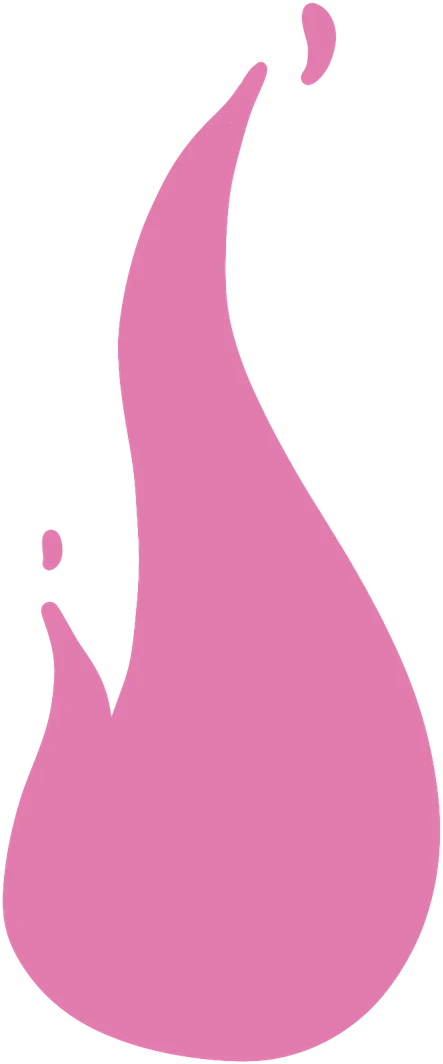
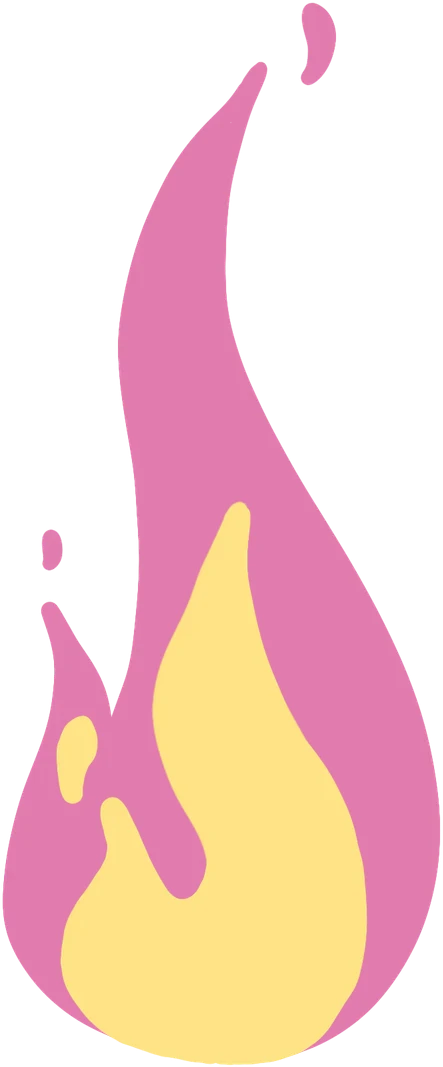
Laboratorio de Sid: Metta en lugar de Belleza (su nido con sus seres alrededor), los personajes de cada carta alrededor de su lugar (Metta, Celebración, Vulpes en Desafío), y la noche viva (luciérnagas, esporas, estrellas fugaces que suenan)
Claude-Session: https://claude.ai/code/session_01WTSfarsaRbQ4zQwAYYhqZ8

diff --git a/src/lab/sidWorld.js b/src/lab/sidWorld.js
@@ -4,7 +4,7 @@
 // the sprout that grows out of its middle and curls up into a bead, as she drew them), pebbles and a stack of them,
 // each on the ground, spread over the world, and her tree ahead of him on his way (TREE); and plants, stones and
 // mushrooms cut out of the cards' scenes the same way (src/lab/suelo, by scripts/convert-lab-suelo.mjs): Ciclos's fans
-// and tufts of grass, Upekkha's mushrooms and crystals, Desafío's and Belleza's stones, Belleza's and Celebración's
+// and tufts of grass, Upekkha's mushrooms and crystals, Desafío's stones, Metta's little glowing plants, Celebración's
 // mushrooms. It is endless, across and into the distance: it is made a patch at a time from where it is (the same
 // place is always the same), and only what is on the screen is drawn. Everything starts in ink and takes its colour
 // (one of the seven of the chakras) as he walks by it, and all round him when he sits in lotus (a wave goes out of
@@ -74,6 +74,8 @@ const GRASS = ['grass0', 'grass1', 'grass2', 'grass3', 'grass4', 'grass5', 'gras
 
 // The big stones stand in his way (he walks round them; the small ones he steps over), and the tall plants are drawn
 // faint when they are just in front of him (the low ones, and the grass, hide his feet as he walks through them)
+// what lets go of glowing spores by night (they rise from its caps and fade)
+const SPORES = new Set(['shrooms', 'shroom', 'grove', 'mushrooms', 'caps', 'bloom0', 'bloom1', 'bloom2', 'bloom3', 'bloom4']);
 const BLOCKS = new Set(['pebbleGrass', 'pebbleFlat', 'cairn', 'grove', 'stones', 'stack']);
 const TALL = new Set(['fern', 'fernSmall', 'cairn', 'grove']);
 // her tree's trunk on the floor: it stands a little behind its foot (its roots come forward), as wide as it looks
@@ -112,7 +114,7 @@ export const CICLOS = {
 };
 
 // The zones of the world, one card each, across it (ZONE wide, in this order to his right; endless both ways, so going
-// on they come round again): Ciclos round her tree, Belleza, Upekkha, Desafío and Celebración (to the left of Ciclos).
+// on they come round again): Ciclos round her tree, Metta, Upekkha, Desafío and Celebración (to the left of Ciclos).
 // Each has its card's colours: its ink (also Sid's line) and its white (Sid's body), its sky by day and by night (the
 // night is the cards' starry sky over it), its ground and the streaks and marks on it by day and by night, its sun,
 // the colours things take, and its own pieces (cut out of its scene's layers, shown in its own colours once coloured).
@@ -121,13 +123,14 @@ export const CICLOS = {
 const ZONES = [
     { card: 'ciclos', id: 15, ...CICLOS, own: [{ names: ['fan0', 'fan1', 'fan2', 'fan3'], weight: 3, sway: 0.35 }], grass: true },
     {
-        card: 'belleza', id: 13, ink: '#3C549C', white: '#EEF5CC', sky: '#48B4B4', night: '#1F4E86', sun: '#F7C9B6',
-        groundDay: '#90CCA8', groundNight: '#6FB3A6', detailDay: '#E4F0B4', detailNight: '#2C4A86',
+        // (a night card: its day is the colours of its two lights, the great yellow one and the turquoise one)
+        card: 'metta', id: 8, ink: '#18243C', white: '#FCFCFC', sky: '#FCE49C', night: '#303C6C', sun: '#00B4CC',
+        groundDay: '#305490', groundNight: '#3C64A8', detailDay: '#00B4CC', detailNight: '#1E3A70',
         colours: [
-            { light: '#F0B4A8', ink: '#B4665F' }, { light: '#48B4B4', ink: '#1F7F86' }, { light: '#6C84C8', ink: '#3C549C' },
-            { light: '#E4F0B4', ink: '#8FA060' }, { light: '#90CCA8', ink: '#4F8F6A' }, { light: '#F7D774', ink: '#A88A2A' },
+            { light: '#F09CB4', ink: '#B05A78' }, { light: '#00B4CC', ink: '#007C8C' }, { light: '#FCE49C', ink: '#A88A3A' },
+            { light: '#3C84C0', ink: '#245490' }, { light: '#305490', ink: '#18243C' }, { light: '#FCFCFC', ink: '#8C9CB4' },
         ],
-        own: [{ name: 'stack', weight: 1 }, { name: 'mushroomRow', weight: 2 }, { name: 'bush', weight: 2, sway: 0.2 }],
+        own: [{ names: ['bloom0', 'bloom1', 'bloom2', 'bloom3', 'bloom4'], weight: 5, sway: 0.4 }],
     },
     {
         card: 'upekkha', id: 9, ink: '#60549C', white: '#FCFCFC', sky: '#B4E4D8', night: '#2490A8', sun: '#FC9C78',
@@ -166,18 +169,27 @@ const ZONE = 8000, ZONE_START = -2000, BLEND = 1000;    // (about 19 s walking a
 const CYCLE_W = ZONE * ZONES.length;   // (the zones come round again after this)
 const centreOf = (card) => ZONE_START + ZONE * (ZONES.findIndex((z) => z.card === card) + 0.5);
 // The special place of each zone, in its middle (and again wherever the zones come round): Ciclos's is her tree; then
-// Belleza's two beings embracing, Upekkha's pond and Celebración's fire (Desafío has none yet). Sitting in
+// Metta's nest of mushrooms with its beings round it, Upekkha's pond and Celebración's fire with everyone round it
+// (Desafío has none yet: only Vulpes is there). Its pieces (parts) and the characters round it (crowd, each its own
+// thing on the ground, breathing, hopping when he comes, leaning to him) stand where the card has them: across, as far
+// from its anchor (the foot of its main piece, card px) as in the card, and back, as far as they are up in the card
+// (depthK times: the card's ground is seen nearly flat). Sitting in
 // lotus at one (sit: how far to its sides, in front of it and behind it) the rulito is born over him and the
 // affirmation of its card (id) is written in the sky; the place answers too (`glow`). block: what of it stands in his
 // way (a circle, or an ellipse rd deep, dd behind its foot); clear: the ground kept free round it of the world's plants
 const PLACES = [
     { card: 'ciclos', kind: 'tree', id: 15, x: TREE.x, d: TREE.d },
-    { card: 'belleza', kind: 'pair', id: 13, x: centreOf('belleza'), d: 380, reach: 450,
-        block: { r: 160 }, sit: { w: 480, front: 540, back: 80 }, clear: { w: 600, front: 320, back: 300 } },
+    { card: 'metta', kind: 'nest', id: 8, x: centreOf('metta'), d: 420, reach: 1100, anchor: [1082, 1729], depthK: 1.1,
+        parts: ['nest'], crowd: ['metta0', 'metta1', 'metta2', 'metta3', 'metta4', 'metta5', 'mettaFox', 'mettaKitten'],
+        block: { r: 330 }, sit: { w: 520, front: 620, back: 40 }, clear: { w: 1150, front: 420, back: 620 } },
     { card: 'upekkha', kind: 'pond', id: 9, x: centreOf('upekkha'), d: 560, reach: 900,
         block: { dd: 170, r: 760, rd: 200 }, sit: { w: 700, front: 520, back: 0 }, clear: { w: 960, front: 220, back: 560 } },
-    { card: 'celebracion', kind: 'fire', id: 14, x: centreOf('celebracion'), d: 420, reach: 400,
-        block: { r: 150 }, sit: { w: 500, front: 480, back: 220 }, clear: { w: 520, front: 280, back: 280 } },
+    { card: 'celebracion', kind: 'fire', id: 14, x: centreOf('celebracion'), d: 420, reach: 950, anchor: [1067, 1925], depthK: 1.1,
+        parts: ['flame', 'logs'], crowd: ['fire_samaLeft', 'fire_samaRight', 'fire_seated', 'fire_foxLeft', 'fire_foxRight',
+            'fire_catBack', 'fire_catFront', 'fire_trio', 'fire_hairy', 'fire_pink'],
+        block: { r: 220 }, sit: { w: 560, front: 520, back: 160 }, clear: { w: 950, front: 420, back: 760 } },
+    { card: 'desafio', kind: 'none', id: 21, x: centreOf('desafio'), d: 420, reach: 450, anchor: [1202, 2083], depthK: 1.1,
+        parts: [], crowd: ['vulpes'], clear: { w: 480, front: 240, back: 240 } },
 ];
 // The places between x0 and x1, wherever the zones come round: { P, x }
 function placesNear(x0, x1) {
@@ -259,6 +271,15 @@ export function createWorld({ clouds = null, moon = null }) {
             if (P.kind === 'tree') add({ kind: 'tree', x, d: P.d, reach: 700, place: P });
             else add({ kind: 'place', x, d: P.d, reach: P.reach, place: P, scale: 1 });
         }
+        // the characters round the places, each where it stands (in the stretch and the row its own place falls in)
+        for (const { P, x } of near) {
+            for (const name of P.crowd ?? []) {
+                const at = PIECES[name].at, [, , w, h] = PIECES[name].box, u = PIECES[name].unit;
+                const bx = x + (at[0] + w / 2 - P.anchor[0]) * u, bd = P.d - (at[1] + h - P.anchor[1]) * u * P.depthK;
+                if (bx < index * STRETCH || bx >= (index + 1) * STRETCH || row !== Math.floor((bd + 180) / PATCH)) continue;
+                add({ kind: 'being', name, x: bx, d: bd, place: P, at: x, phase: r() * 10, reach: w * u });
+            }
+        }
         // nothing of the world stands on or just in front of them (as the camera moves it would cross them): her tree's
         // roots come forward
         const clear = (p) => near.every(({ P, x }) => P.kind === 'tree'
@@ -286,6 +307,11 @@ export function createWorld({ clouds = null, moon = null }) {
             const p = at(), z = zonesAt(p.x);
             if (!clear(p) || !(r() < z.t ? z.b : z.a).grass) continue;
             add({ kind: 'piece', name: pick(GRASS), x: p.x, d: p.d, scale: 0.45 + r() * 0.35, flip: r() < 0.5 ? -1 : 1, sway: 0.7, color: pick([1, 1, 0, 4]) });
+        }
+        // fireflies, by night: a few in every stretch, low over the ground
+        for (let n = 0, m = 2 + Math.floor(r() * 3); n < m; n++) {
+            const p = at();
+            add({ kind: 'firefly', x: p.x, d: p.d, high: 40 + r() * 120, phase: r() * 100, reach: 60 });
         }
         // streaks on the hills, as the card's: short brush strokes lying along the ground (pills with round ends, a little
         // curved, now and then two in a row) and a few small ovals, in the ground's other colour
@@ -341,15 +367,24 @@ export function createWorld({ clouds = null, moon = null }) {
         for (const { i, items } of stretches.values()) {
             if (Math.abs(i * STRETCH - sid.x) > 3000) continue;
             for (const item of items) {
-                if (item.kind !== 'place') continue;
-                const l = lifeOf(item), want = at && at.x === item.x && at.P === item.place ? 1 : 0;
+                if (item.kind !== 'place' && item.kind !== 'being') continue;
+                const l = lifeOf(item), home = item.kind === 'place' ? item.x : item.at;
+                const want = at && at.x === home && at.P === item.place ? 1 : 0;
                 l.glow = (l.glow ?? 0) + (want - (l.glow ?? 0)) * Math.min(1, dt * (want ? 0.5 : 0.8));
+                if (item.kind !== 'being') continue;
+                // it hops once when he comes near (and again only after he has gone a little way off), and leans to him
+                const dist = Math.hypot(item.x - sid.x, (item.d - sid.d) * 1.6);
+                if (dist < 300 && !l.near && !sid.sitting) { l.near = true; l.hop = 1; }
+                if (dist > 520) l.near = false;
+                l.hop = Math.max(0, (l.hop ?? 0) - dt * 2.4);
+                const toward = dist < 700 ? Math.sign(sid.x - item.x) : 0;
+                l.lean = (l.lean ?? 0) + (toward - (l.lean ?? 0)) * Math.min(1, dt * 2);
             }
             for (const item of items) {
                 const dx = item.x - sid.x, dd = (item.d - sid.d) * 1.6, dist = Math.hypot(dx, dd);
                 // colour: as he walks by, and inside the wave while he sits
                 let c = colour.get(item.id) ?? 0;
-                const near = item.kind === 'tree' ? 950 : item.kind === 'place' ? item.reach + 350 : 170;
+                const near = item.kind === 'tree' ? 950 : item.kind === 'place' ? item.reach + 350 : item.kind === 'being' ? 320 : 170;
                 if (dist < near) c = Math.min(1, c + dt * 0.9 * (1 - dist / near) * 2);
                 if (ripple && Math.hypot(item.x - ripple.x, (item.d - ripple.d) * 1.6) < ripple.r) c = Math.min(1, c + dt * 1.4);
                 if (c > 0) colour.set(item.id, c);
@@ -455,6 +490,16 @@ export function createWorld({ clouds = null, moon = null }) {
                 c.restore();
             }
             piece(c, item.name, -box[2] * k / 2, -box[3] * k, k, P, col, !PIECES[item.name].fill);
+            // by night the mushrooms and the glowing plants let go of spores, which rise from them and fade
+            const dark = night();
+            if (dark > 0.05 && SPORES.has(item.name)) {
+                const seed = (item.x * 0.013) % 10;
+                for (let n = 0; n < 4; n++) {
+                    const t = (time * 0.11 + n / 4 + seed) % 1, a = dark * Math.sin(Math.PI * t) * 0.85;
+                    const sx = (Math.sin(t * 5 + n * 2.1 + seed) * 0.25 + (n / 3 - 0.5) * 0.4) * box[2] * k, sy = -box[3] * k * 0.75 - t * 170;
+                    c.fillStyle = `rgba(255,248,220,${a})`; c.beginPath(); c.arc(sx, sy, 2.6 + 1.4 * (1 - t), 0, Math.PI * 2); c.fill();
+                }
+            }
             c.restore();
             break;
         }
@@ -488,11 +533,14 @@ export function createWorld({ clouds = null, moon = null }) {
                 gr.addColorStop(0, `rgba(${rgb.join(',')},${a})`); gr.addColorStop(1, `rgba(${rgb.join(',')},0)`);
                 c.fillStyle = gr; c.beginPath(); c.arc(x, y, radius, 0, Math.PI * 2); c.fill();
             };
-            if (P.kind === 'pair') {
-                // the two embracing breathe together, and hug closer as he meditates by them, in a warm light
-                const [, , w, h] = B('pair'), breath = 1 + 0.012 * Math.sin(time * 1.3) + 0.03 * g * Math.sin(time * 0.9);
-                halo(0, -h * 0.5, h * (0.6 + 0.4 * g), [255, 236, 200], 0.15 + 0.4 * g);
-                c.save(); c.scale(1 / breath, breath); at('pair', -w / 2, -h); c.restore();
+            // (a piece of the place, where the card has it round its anchor)
+            const part = (name) => { const a = PIECES[name].at, u = PIECES[name].unit; return [(a[0] - P.anchor[0]) * u, (a[1] - P.anchor[1]) * u]; };
+            if (P.kind === 'nest') {
+                // Metta's nest of mushrooms, breathing a little, in the warm light of the great one as he meditates by it
+                const [, , w, h] = B('nest'), [x, y] = part('nest'), breath = 1 + 0.01 * Math.sin(time * 1.1);
+                halo(x + w / 2, y + h * 0.4, w * (0.7 + 0.5 * g), [252, 228, 156], 0.12 + 0.45 * g);
+                halo(x + w / 2, y + h * 0.3, w * (0.35 + 0.3 * g), [0, 180, 204], 0.08 + 0.35 * g);
+                c.save(); c.scale(1, breath); at('nest', x, y); c.restore();
             } else if (P.kind === 'pond') {
                 // lying on the ground (seen from his height, squashed), with rings going out over it as he meditates by it
                 const [, , w, h] = B('pond'), flat = 0.5;
@@ -506,13 +554,44 @@ export function createWorld({ clouds = null, moon = null }) {
                 }
                 c.restore();
             } else if (P.kind === 'fire') {
-                // the logs and the flame over them, flickering, growing as he meditates by it, with its warm light
-                const [, , lw, lh] = B('logs'), [, , fw, fh] = B('flame');
-                const grow = 1 + 0.45 * g, sy = (1 + 0.07 * Math.sin(time * 7.1) + 0.04 * Math.sin(time * 12.7)) * grow, sx = (1 - 0.05 * Math.sin(time * 8.3)) * grow;
-                halo(0, -lh * 0.6 - fh * 0.3 * grow, fh * 0.7 * grow, [255, 190, 150], 0.25 + 0.35 * g);
-                c.save(); c.translate(0, -lh * 0.45); c.scale(sx, sy); at('flame', -fw / 2, -fh); c.restore();
-                at('logs', -lw / 2, -lh);
+                // the logs and the flame over them (with the yellow one inside it), flickering about its foot, growing as he
+                // meditates by it, with its warm light
+                const [, , fw, fh] = B('flame'), [fx, fy] = part('flame'), [lx, ly] = part('logs');
+                const grow = 1 + 0.2 * g, sy = (1 + 0.07 * Math.sin(time * 7.1) + 0.04 * Math.sin(time * 12.7)) * grow, sx = (1 - 0.05 * Math.sin(time * 8.3)) * grow;
+                const footX = fx + fw / 2, footY = fy + fh;
+                halo(footX, footY - fh * 0.35 * grow, fh * 0.75 * grow, [255, 190, 150], 0.25 + 0.35 * g);
+                c.save(); c.translate(footX, footY); c.scale(sx, sy); at('flame', -fw / 2, -fh); c.restore();
+                at('logs', lx, ly);
             }
+            break;
+        }
+        case 'firefly': {
+            // a warm light drifting and blinking low over the ground, only by night
+            const dark = night();
+            if (dark < 0.05) break;
+            const ph = item.phase, blink = Math.max(0, Math.sin(time * 1.7 + ph)) ** 2;
+            const x = Math.sin(time * 0.5 + ph) * 40 + Math.sin(time * 1.3 + ph * 2) * 12, y = -item.high - Math.sin(time * 0.8 + ph * 3) * 26;
+            const a = dark * (0.25 + 0.75 * blink);
+            const gr = c.createRadialGradient(x, y, 0, x, y, 22);
+            gr.addColorStop(0, `rgba(255,236,150,${0.55 * a})`); gr.addColorStop(1, 'rgba(255,236,150,0)');
+            c.fillStyle = gr; c.beginPath(); c.arc(x, y, 22, 0, Math.PI * 2); c.fill();
+            c.fillStyle = `rgba(255,250,214,${a})`; c.beginPath(); c.arc(x, y, 3.2, 0, Math.PI * 2); c.fill();
+            break;
+        }
+        case 'being': {
+            // one of the characters round a place: it breathes, hops when he comes, leans a little towards him, and in the
+            // light of the place while he meditates there
+            const [, , w, h] = boxOf(item.name), g = l?.glow ?? 0, hop = l?.hop ?? 0;
+            const breath = 1 + 0.018 * Math.sin(time * 1.5 + item.phase), lift = Math.sin(Math.PI * hop) * 30;
+            const lean = (l?.lean ?? 0) * 0.06 + wind(item.x) * 0.1;
+            if (g > 0.01) {
+                const gr = c.createRadialGradient(0, -h * 0.5, 0, 0, -h * 0.5, h * 0.7);
+                gr.addColorStop(0, `rgba(255,240,200,${0.35 * g})`); gr.addColorStop(1, 'rgba(255,240,200,0)');
+                c.fillStyle = gr; c.beginPath(); c.arc(0, -h * 0.5, h * 0.7, 0, Math.PI * 2); c.fill();
+            }
+            c.save(); c.translate(0, -lift); c.rotate(lean); c.scale(1 / Math.sqrt(breath), breath);
+            piece(c, item.name, -w / 2, -h, 1, item.P, col, false);
+            c.restore();
             break;
         }
         case 'stipple': {
@@ -537,7 +616,7 @@ export function createWorld({ clouds = null, moon = null }) {
             if (P.kind === 'tree') {
                 const crown = boxOf('crown'), middle = near.x + (crown[0] + crown[2] / 2 - TREE.foot.x) * TREE.scale;
                 if (Math.abs(x - middle) < crown[2] * TREE.scale * 0.42 && d > P.d - 520 && d < P.d + 200) return near;
-            } else if (Math.abs(x - near.x) < P.sit.w && d > P.d - P.sit.front && d < P.d + P.sit.back) return near;
+            } else if (P.sit && Math.abs(x - near.x) < P.sit.w && d > P.d - P.sit.front && d < P.d + P.sit.back) return near;
         }
         return null;
     }

diff --git a/src/lab/LabSid.vue b/src/lab/LabSid.vue
@@ -965,7 +965,8 @@ onMounted(() => {
     window.addEventListener('blur', release);
     resize();
     window.addEventListener('resize', resize);
-    stars = createStarField(starCanvas.value, nightSky.value, { pace: () => state.pace });
+    // (a shooting star that passes near sounds, as in the app's other night skies; only when the night is out)
+    stars = createStarField(starCanvas.value, nightSky.value, { pace: () => state.pace, onShoot: () => { if (world.night() > 0.5) play('star'); } });
     raf = requestAnimationFrame(loop);
 });
 onBeforeUnmount(() => {

diff --git a/CLAUDE.md b/CLAUDE.md
@@ -80,7 +80,7 @@ These cannot see what a real GPU or a real phone does (flicker, disappearing lay
 - `SceneTransformacion` (32): a ritual of the seed under a pink sky (read from the card): from a glowing teal seed come the root, down to a dark pond, and the plant, up to a palm crown holding a little sun (a disc in code); golden dust (particles) rises from the pond's light along the trunk, signs float round it, and a little one with a rod and an elder with a bowl watch it; layers in `public/assets/transformacion` and `transformacionScene.json` (made by `scripts/convert-transformacion.mjs`). Its verb is Fluir, on the engine of `useFlow.js`: golden sap rises from the pond's light up the root and the trunk as a finger slides up with it; the six yellow signs are the knots: as the sap comes level with one, accompanied, it lets go of its shape and melts into the trunk; at the crown the sun lights up, the seed glows and the rulito is born out of it. A tap strums the chord. Details: `docs/escenas.md`.
 - `SceneEsperanza` (30): a starry night over the desert, a big half-shadowed moon and, on the far ridge, a little being in a pink aura looking up; layers in `public/assets/esperanza` and `esperanzaScene.json` (made by `scripts/convert-esperanza.mjs`). The teal sky is painted in code from the card, the stars, the moon's stipple and the aura are particles, the grass sways tuft by tuft and the land goes on past the frame without its stones; a touch strums the chord and the stars flare. Its verb is Ver with Pañña's threads (`useThreads.js`, the helix of dots shared by Pañña and Esperanza): some stars shine brighter, and joining them by dragging shows an ancestor, a constellation of a fox like the little one (its head from the front, walking, and only its curled tail; two bright stars are decoys); seen, it goes to stand behind the little being and lets a thread of light down to it, whose aura grows; with the three behind it their threads shine together, its aura opens (`open`) and the rulito is born over its head. Details: `docs/escenas.md`.
 - `SceneMetta` (8): Sid in his nest of mushrooms on a hilltop, inside a turquoise light inside a great yellow one, with six beings, a fox and a kitten round him; layers in `public/assets/metta` and `mettaScene.json` (made by `scripts/convert-metta.mjs`). The sky, both lights and the hill are code (the hill goes on past the frame); each light's stippled band is particles over the edge of its disc, sampled from the card (`scripts/sun-cloud.mjs`, as Pañña's sun), so no circle's edge shows; the sky is as our skies (a far plane, the card's stars stirred by a finger, shooting stars, near out-of-focus stars) and so is the small sky inside the turquoise light; flower lights and spores are particles. Everyone breathes, blinks, glances at Sid and has a way of its own (rocking, nodding, dozing off, the pair swaying together, humming, the fox sniffing, the kitten hopping). Its verb is Dar y recibir (`useGiving.js`, Dana's engine), starting with oneself: the first touch has to be on Sid, whose own light fills; then each touch sends a light from his heart to one round him; with the eight lit they all send one back, and the pink rulito is born over his head; then he starts again from himself. Details: `docs/escenas.md`.
-- **The puppet lab** (`/lab/sid`, reached from the labyrinth icon in the footer, `Footer.vue`; its own chunk, loaded only when opened; the app's header, its icons in Sid's ink while the lab is open, `body.lab-page`, and its buttons as the app's): Sid as a puppet in Canvas 2D (`src/lab/LabSid.vue`), his body drawn in code from his silhouette traced off Nekkhamma's Sid, bent, squashed and stretched as a soft body, eyes in code, arms and legs as strokes in code as thick as his outline (two-bone IK, planted feet when walking; proportions as Nekkhamma's Sid: head 1, torso 0.6, legs 0.6); how he is seen follows his heading on the floor, an angle that turns smoothly (profile, three quarters, from the front or from behind; he turns as he walks, in a curve, his eyes first, and turns to us when still); his feet are planted on the floor each at its own depth (`onFloor`), he walks round her tree (its trunk and its roots, ellipses on the floor; the tree stands at the back) and the big stones (`obstacles()` in `sidWorld.js`), walks as The Animator's Survival Kit draws a walk, pose by pose: each leg goes through eight key poses of thigh, knee and foot (`WALK`, contact, down, passing, up and the swing back), the other half a cycle later, and his hips' height and his going forward come out of the legs (as high as the lower foot allows; as far as the foot on the ground goes back, so it never slides), sets off and stops with weight and breaks into a trot when held, and seen from afar and high up (much floor, little sky), the camera follows him with a little lag, across (a little ahead of him) and into the distance, so he stays a little below the middle and the world is endless both ways (made a patch at a time, `patches()` in `sidWorld.js`, fading in at the horizon); he walks freely over a floor in perspective (arrows or WASD; a touch or a click on the floor sends him there and a finger held down guides him, trotting when held far a while, with a ring of dots where he goes: on a phone there is no pad) and the space bar (a Lotus button on a phone) sits him in lotus; his silhouette, eyes and hatching read by `scripts/make-sid-lab.mjs` into `src/lab/sid/sid.json`. The world round him is drawn in code too (`src/lab/sidWorld.js`): endless both ways, made a patch at a time from where it is, with grass ticks, a stipple and the ground's streaks in a pen of ink, and the illustrator's own pieces (ferns, the big one with the curling sprout that grows out of its middle, as she drew them (some two, a few none), `WITH` in `sidWorld.js`; pebbles, a stack of them, each on the ground, spread over the world, and her tree, ahead of him on his way: `originales/arbol` made into `src/lab/arbol` by `scripts/convert-lab-arbol.mjs`, each piece's line as transparency and what is inside it found by the converter, both tinted in code: cream at first, Ciclos's colours as they are coloured; and, made the same way from the scenes' own layers by `scripts/convert-lab-suelo.mjs` into `src/lab/suelo`, Ciclos's fans and tufts of grass, Upekkha's grove of big mushrooms with its crystals, its crystals and small mushrooms, Desafío's stones, Belleza's stack of stones and row of little mushrooms and Celebración's mushrooms, each with its own size, `unit` in `suelo.json`; the lab's pictures are never inlined as base64, `assetsInlineLimit` in `vite.config.js`), under Ciclos's sky and its own white clouds (`public/assets/ciclos/clouds.webp`), all in Ciclos's palette (`CICLOS` in `sidWorld.js`: its ink and white for Sid too); the world is in zones across it, one card each (`ZONES` in `sidWorld.js`, 8000 wide, about 19 s walking, blending over 1000: Ciclos round her tree, then Belleza, Upekkha, Desafío and Celebración, where it is always night, and round again), each with its card's ink and white (Sid's line and body too), sky and night, ground and streaks, sun and the colours things take, and its own pieces from `src/lab/suelo`, shown in their card's own colours once coloured (`NAME-colour.webp`); the header's icons stay cream by night (`body.lab-night`); each zone has its special place in its middle (`PLACES` in `sidWorld.js`, coming round with the zones): her tree in Ciclos, Belleza's two beings embracing, Upekkha's pond lying on the ground, Celebración's fire (Desafío has none yet) (logs and a flickering flame), all made by `convert-lab-suelo.mjs` from the cards' layers (`compose`, `mirror`), each standing in his way (`block`) and keeping its ground clear; sitting in lotus at one (`placeCard`) the rulito is born and, once whole, the affirmation of its card is written by hand in the sky (`teaching` in `LabSid.vue`, in the chosen language), while the place answers (`glow`: the two hug closer in a warm light, rings go out over the pond, the fire flares); the music moves to the chord of the zone's card (`zoneCard`, `setCardChord`, back to the app's on leaving): things take its colours as a wash where he walks and all round him in lotus, day and night come and go as in the card (its yellow day with the card's living sun, its disc and its stippled corona read from the card as dots that drift and twinkle, over a green ground with yellow streaks; by night the cards' own starry sky, `useStarField.js` behind the canvas, over its teal, its moon, and a yellow ground with mustard streaks; sun and moon rise from under the horizon, cross the sky and set; a cycle of 90 s; while he meditates the world's time all but stops, `pace` in `world.update` and in `createStarField`). What to ask the illustrator for: `docs/sid-en-piezas.md`; the plan for a semi-open world (zones, characters, places, seeds, teachings, memory on the phone): `docs/mundo-semiabierto.md`.
+- **The puppet lab** (`/lab/sid`, reached from the labyrinth icon in the footer, `Footer.vue`; its own chunk, loaded only when opened; the app's header, its icons in Sid's ink while the lab is open, `body.lab-page`, and its buttons as the app's): Sid as a puppet in Canvas 2D (`src/lab/LabSid.vue`), his body drawn in code from his silhouette traced off Nekkhamma's Sid, bent, squashed and stretched as a soft body, eyes in code, arms and legs as strokes in code as thick as his outline (two-bone IK, planted feet when walking; proportions as Nekkhamma's Sid: head 1, torso 0.6, legs 0.6); how he is seen follows his heading on the floor, an angle that turns smoothly (profile, three quarters, from the front or from behind; he turns as he walks, in a curve, his eyes first, and turns to us when still); his feet are planted on the floor each at its own depth (`onFloor`), he walks round her tree (its trunk and its roots, ellipses on the floor; the tree stands at the back) and the big stones (`obstacles()` in `sidWorld.js`), walks as The Animator's Survival Kit draws a walk, pose by pose: each leg goes through eight key poses of thigh, knee and foot (`WALK`, contact, down, passing, up and the swing back), the other half a cycle later, and his hips' height and his going forward come out of the legs (as high as the lower foot allows; as far as the foot on the ground goes back, so it never slides), sets off and stops with weight and breaks into a trot when held, and seen from afar and high up (much floor, little sky), the camera follows him with a little lag, across (a little ahead of him) and into the distance, so he stays a little below the middle and the world is endless both ways (made a patch at a time, `patches()` in `sidWorld.js`, fading in at the horizon); he walks freely over a floor in perspective (arrows or WASD; a touch or a click on the floor sends him there and a finger held down guides him, trotting when held far a while, with a ring of dots where he goes: on a phone there is no pad) and the space bar (a Lotus button on a phone) sits him in lotus; his silhouette, eyes and hatching read by `scripts/make-sid-lab.mjs` into `src/lab/sid/sid.json`. The world round him is drawn in code too (`src/lab/sidWorld.js`): endless both ways, made a patch at a time from where it is, with grass ticks, a stipple and the ground's streaks in a pen of ink, and the illustrator's own pieces (ferns, the big one with the curling sprout that grows out of its middle, as she drew them (some two, a few none), `WITH` in `sidWorld.js`; pebbles, a stack of them, each on the ground, spread over the world, and her tree, ahead of him on his way: `originales/arbol` made into `src/lab/arbol` by `scripts/convert-lab-arbol.mjs`, each piece's line as transparency and what is inside it found by the converter, both tinted in code: cream at first, Ciclos's colours as they are coloured; and, made the same way from the scenes' own layers by `scripts/convert-lab-suelo.mjs` into `src/lab/suelo`, Ciclos's fans and tufts of grass, Upekkha's grove of big mushrooms with its crystals, its crystals and small mushrooms, Desafío's stones and pink mushrooms, Metta's little glowing plants and Celebración's mushrooms, each with its own size, `unit` in `suelo.json`; the lab's pictures are never inlined as base64, `assetsInlineLimit` in `vite.config.js`), under Ciclos's sky and its own white clouds (`public/assets/ciclos/clouds.webp`), all in Ciclos's palette (`CICLOS` in `sidWorld.js`: its ink and white for Sid too); the world is in zones across it, one card each (`ZONES` in `sidWorld.js`, 8000 wide, about 19 s walking, blending over 1000: Ciclos round her tree, then Metta, Upekkha, Desafío and Celebración, where it is always night, and round again), each with its card's ink and white (Sid's line and body too), sky and night, ground and streaks, sun and the colours things take, and its own pieces from `src/lab/suelo`, shown in their card's own colours once coloured (`NAME-colour.webp`); the header's icons stay cream by night (`body.lab-night`); each zone has its special place in its middle (`PLACES` in `sidWorld.js`, coming round with the zones): her tree in Ciclos, Metta's nest of mushrooms with its six beings, its fox and its kitten round it, Upekkha's pond lying on the ground, Celebración's fire (logs and a flickering flame with its yellow one inside) with everyone round it (the two Samas, the one sitting, the foxes, the cats, the hairy ones), and in Desafío, which has no place yet, Vulpes; the characters (`crowd`) each stand on the ground where the card has them round the place (`anchor`, `depthK`, the pieces' `at` in `suelo.json`), breathe, hop when he comes, lean towards him and glow while he meditates there; all made by `convert-lab-suelo.mjs` from the cards' layers (`compose`, `mirror`), each standing in his way (`block`) and keeping its ground clear; sitting in lotus at one (`placeCard`) the rulito is born and, once whole, the affirmation of its card is written by hand in the sky (`teaching` in `LabSid.vue`, in the chosen language), while the place answers (`glow`: the nest in the warm light of Metta's two lights, rings go out over the pond, the fire flares); the music moves to the chord of the zone's card (`zoneCard`, `setCardChord`, back to the app's on leaving): things take its colours as a wash where he walks and all round him in lotus, day and night come and go as in the card (its yellow day with the card's living sun, its disc and its stippled corona read from the card as dots that drift and twinkle, over a green ground with yellow streaks; by night the cards' own starry sky, `useStarField.js` behind the canvas, over its teal, its moon, and a yellow ground with mustard streaks; sun and moon rise from under the horizon, cross the sky and set; by night fireflies drift low and blink, the mushrooms and glowing plants let go of spores (`SPORES`) and a shooting star that passes near sounds (`onShoot`); a cycle of 90 s; while he meditates the world's time all but stops, `pace` in `world.update` and in `createStarField`). What to ask the illustrator for: `docs/sid-en-piezas.md`; the plan for a semi-open world (zones, characters, places, seeds, teachings, memory on the phone): `docs/mundo-semiabierto.md`.
 - **The ghost hand** (`useGhostHand.js`) is every game's hint, with no words: left alone 7 s (`HINT_AFTER`, and again 7 s after a win), a fingertip of light made of dots does the verb's gesture on the real place (`gesture.tap`, `taps`, `hold`, `rub`, `sling`, `drag`, `slide`), twice, and goes at once on any touch; never with reduced motion. Every card with a game has it (Silencio has no game yet), navy over light scenes or where the cream tip would be lost; what each card shows is in `docs/escenas.md`. The rulito is born where the original card draws it, or over a character (never at a fixed place on the screen). Details: `docs/escenas.md`.
 - **three.js** is always imported on demand from `src/three.js`, which re-exports only the classes the app uses (so the build does not carry the whole library); using another class means adding it there.
 - **Skies are never pictures:** a flat or gradient sky (and a plain disc of a sun or a moon) is drawn in code from the card's colours (a CSS gradient worked out by the converter, `disc()`, `glow()`), not shipped as a full-screen image; only what has drawing in it is a picture.

diff --git a/docs/sid-en-piezas.md b/docs/sid-en-piezas.md
@@ -22,7 +22,7 @@ Sid (que también es Particular) hoy llega a cada escena como un dibujo entero: 
 
 **Sus piezas en el mundo.** El árbol y sus plantas (`originales/arbol`, cada pieza en su capa, línea negra sobre blanco) pasan por `scripts/convert-lab-arbol.mjs` a `src/lab/arbol`: la línea como transparencia, para teñirla en código, y aparte lo que queda dentro de la línea (el converter lo encuentra: lo blanco que no se alcanza desde afuera sin cruzar la línea; la copa, fila por fila; el tronco, abierto arriba), para pintarlo en código. Todo empieza en tinta sobre crema y toma los colores de Ciclos al colorearse (la copa verde, el tronco tostado, las piedras y la bolita del brote en sus tonos; los helechos, que no tienen nada dentro, tiñen su línea; los hongos al pie del tronco, el sombrero coral y el pie crema). El árbol (tronco, corteza y copa, que se mece apenas con el viento) está más adelante en su camino; sus helechos y piedras van sueltos por todo el mundo (el brote enrulado no va suelto: es parte del helecho grande, sale de su centro como en su dibujo, y se mece un poco más que las hojas; la mayoría tiene uno, algunos dos, el segundo más corto y enrulado hacia el otro lado, y unos pocos ninguno), cada uno apoyado en el suelo, en lugar de las plantas y piedras en código. Así se pueden sumar más piezas: dibujadas en su capa y con los contornos que llevan color cerrados.
 
-**Piezas de las cartas.** También se suman al mundo plantas, piedras y hongos recortados de las capas de las escenas que ya están en `public/assets` (sin originales): `scripts/convert-lab-suelo.mjs` los pasa a `src/lab/suelo` igual que el árbol (la línea aparte, para teñirla, y lo de adentro aparte, para pintarlo; en una pieza de color la línea es su color oscuro, en una de pura línea lo de adentro se encuentra como en el árbol) con su tamaño en el mundo (`unit` en `suelo.json`). Hoy: los abanicos y las matas de pasto de Ciclos (sus propias plantas, en la paleta del mundo), la arboleda de hongos grandes con cristales, los cristales y los hongos chicos del dibujo de línea de Upekkha, las piedras de Desafío, la pila de piedras y la fila de hongos chicos de Belleza, y los hongos de Celebración. Los abanicos toman su rosa, los hongos los tonos cálidos, los cristales el verde azulado, el rosa o el amarillo; las matas de pasto y los abanicos se mecen; la arboleda y las piedras grandes se rodean. Cada pieza va en la zona de su carta (`own` en `ZONES` de `sidWorld.js`) y, al colorearse, aparece con sus colores originales (`NAME-colour.webp`: la capa tal cual, o su línea sobre su relleno pintado en el color de la carta). Para sumar otra: una línea en `PIECES` del converter (de qué capa, qué recorte, qué tamaño) y otra en el `own` de su zona.
+**Piezas de las cartas.** También se suman al mundo plantas, piedras y hongos recortados de las capas de las escenas que ya están en `public/assets` (sin originales): `scripts/convert-lab-suelo.mjs` los pasa a `src/lab/suelo` igual que el árbol (la línea aparte, para teñirla, y lo de adentro aparte, para pintarlo; en una pieza de color la línea es su color oscuro, en una de pura línea lo de adentro se encuentra como en el árbol) con su tamaño en el mundo (`unit` en `suelo.json`). Hoy: los abanicos y las matas de pasto de Ciclos (sus propias plantas, en la paleta del mundo), la arboleda de hongos grandes con cristales, los cristales y los hongos chicos del dibujo de línea de Upekkha, las piedras y los hongos rosados de Desafío, las plantitas que brillan de Metta y los hongos de Celebración; y los lugares y personajes de cada zona (el nido y los seres de Metta, el estanque de Upekkha, la fogata y los personajes de Celebración, Vulpes). Los abanicos toman su rosa, los hongos los tonos cálidos, los cristales el verde azulado, el rosa o el amarillo; las matas de pasto y los abanicos se mecen; la arboleda y las piedras grandes se rodean. Cada pieza va en la zona de su carta (`own` en `ZONES` de `sidWorld.js`) y, al colorearse, aparece con sus colores originales (`NAME-colour.webp`: la capa tal cual, o su línea sobre su relleno pintado en el color de la carta). Para sumar otra: una línea en `PIECES` del converter (de qué capa, qué recorte, qué tamaño) y otra en el `own` de su zona.
 
 - **Infinito:** se hace por tramos según dónde está (el mismo lugar es siempre igual) y la cámara lo sigue. Los lugares especiales compuestos a mano (el árbol grande, la célula, el zorro) vienen después.
 - **La paleta y el cielo de Ciclos:** la tinta de su línea y su blanco (también para Sid), su cielo amarillo con sus nubes blancas (las de la carta, que flotan despacio), sus colinas y sus colores.

diff --git a/docs/mundo-semiabierto.md b/docs/mundo-semiabierto.md
@@ -28,11 +28,11 @@ Decidido con Juan Manuel:
 
 Ir de a una, probando cada pieza en el teléfono antes de la siguiente.
 
-**Hecho: las zonas.** El mundo está en zonas a lo ancho, una por carta (`ZONES` en `sidWorld.js`): Ciclos alrededor del árbol, y hacia la derecha Belleza, Upekkha, Desafío y Celebración (que queda a la izquierda de Ciclos, y donde siempre es de noche); siguiendo, vuelven a empezar. Cada una cambia todo: la tinta y el blanco (también los de Sid), el cielo de día y de noche, el suelo y sus vetas, el sol y los colores que toman las cosas; cada zona mide 8000 px (unos 19 s caminando, así que se camina un rato antes de cambiar de carta) y entre dos zonas se mezclan en unos 1000 px (unos 2 s). Cada carta pone sus propias plantas, piedras y hongos en su zona, que al colorearse se ven con sus colores originales.
+**Hecho: las zonas.** El mundo está en zonas a lo ancho, una por carta (`ZONES` en `sidWorld.js`): Ciclos alrededor del árbol, y hacia la derecha Metta (antes Belleza), Upekkha, Desafío y Celebración (que queda a la izquierda de Ciclos, y donde siempre es de noche); siguiendo, vuelven a empezar. Cada una cambia todo: la tinta y el blanco (también los de Sid), el cielo de día y de noche, el suelo y sus vetas, el sol y los colores que toman las cosas; cada zona mide 8000 px (unos 19 s caminando, así que se camina un rato antes de cambiar de carta) y entre dos zonas se mezclan en unos 1000 px (unos 2 s). Cada carta pone sus propias plantas, piedras y hongos en su zona, que al colorearse se ven con sus colores originales.
 
-**Hecho: un lugar por zona, su enseñanza y su música.** En el medio de cada zona hay un lugar especial (`PLACES` en `sidWorld.js`), armado con las capas de su carta: el árbol en Ciclos, los dos seres abrazados de Belleza, el estanque de Upekkha (acostado en el suelo) y la fogata de Celebración (Desafío todavía no tiene) (troncos y una llama que titila). Sid no los atraviesa. Sentado en loto delante de uno, nace el rulito y, ya completo, aparece escrita a mano en el cielo la afirmación de esa carta, en el idioma elegido; el lugar responde (los dos se abrazan más en una luz cálida, salen ondas sobre el estanque, se aviva el fuego). La música toma el acorde de la carta de la zona donde está, como en la página de cada carta.
+**Hecho: un lugar por zona, su enseñanza y su música.** En el medio de cada zona hay un lugar especial (`PLACES` en `sidWorld.js`), armado con las capas de su carta: el árbol en Ciclos, el nido de hongos de Metta con sus seres alrededor, el estanque de Upekkha (acostado en el suelo) y la fogata de Celebración con todos alrededor; Desafío todavía no tiene lugar (está Vulpes). Sid no los atraviesa. Sentado en loto delante de uno, nace el rulito y, ya completo, aparece escrita a mano en el cielo la afirmación de esa carta, en el idioma elegido; el lugar responde (el nido en la luz de Metta, ondas sobre el estanque, se aviva el fuego). La música toma el acorde de la carta de la zona donde está, como en la página de cada carta.
 
-Lo que sigue: **personajes** que viven en su zona (los seres, zorros, gatos y Samas recortados de las cartas: respiran, miran a Sid, saltan cuando llega, alguno lo sigue un rato) y **detalles vivos de noche** (luciérnagas, estrellas fugaces que suenan, esporas que suben de los hongos).
+**Hecho: personajes y noche.** Los personajes de cada carta están alrededor de su lugar, cada uno donde la carta lo dibuja (`crowd`): en Metta sus seis seres, el zorro y el gatito; en Celebración las dos Samas, el que está sentado, los zorros, los gatos y los peludos; en Desafío, Vulpes. Respiran, saltan cuando Sid llega, se inclinan hacia él y se iluminan mientras medita ahí. De noche hay luciérnagas, los hongos y las plantas que brillan sueltan esporas, y la estrella fugaz que pasa cerca suena. Ciclos y Upekkha no tienen personajes propios en su carta (solo Sid).
 
 ## Preguntas abiertas (a decidir con Juan Manuel antes de empezar)
 
